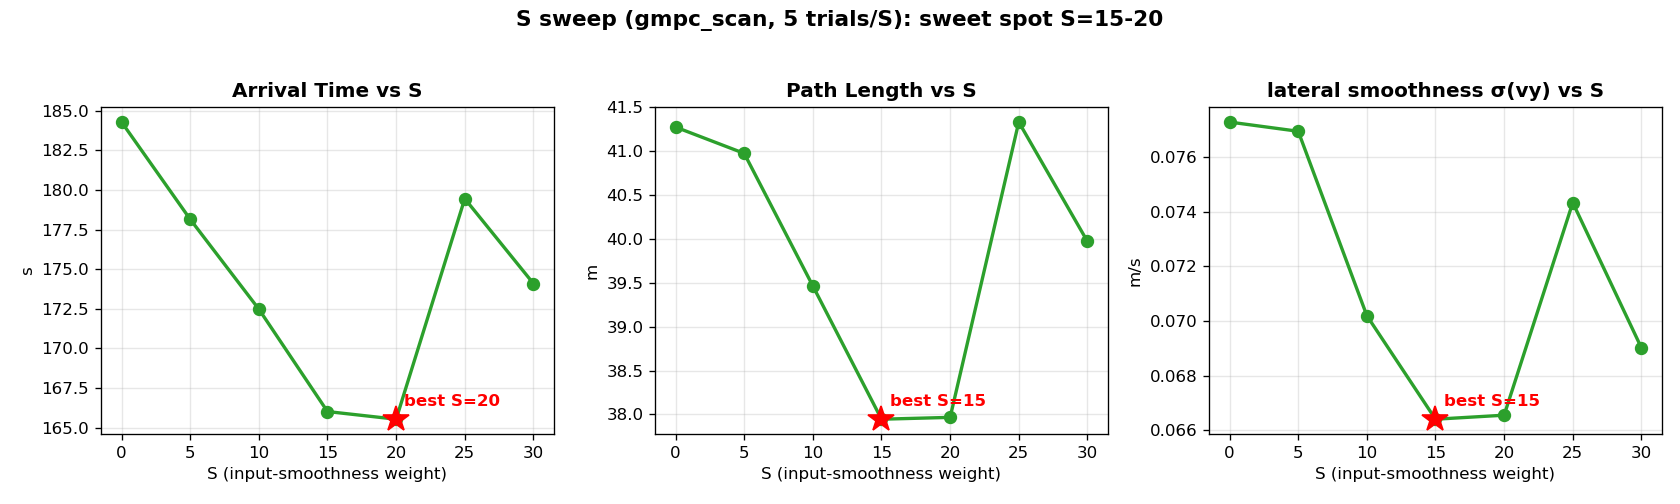
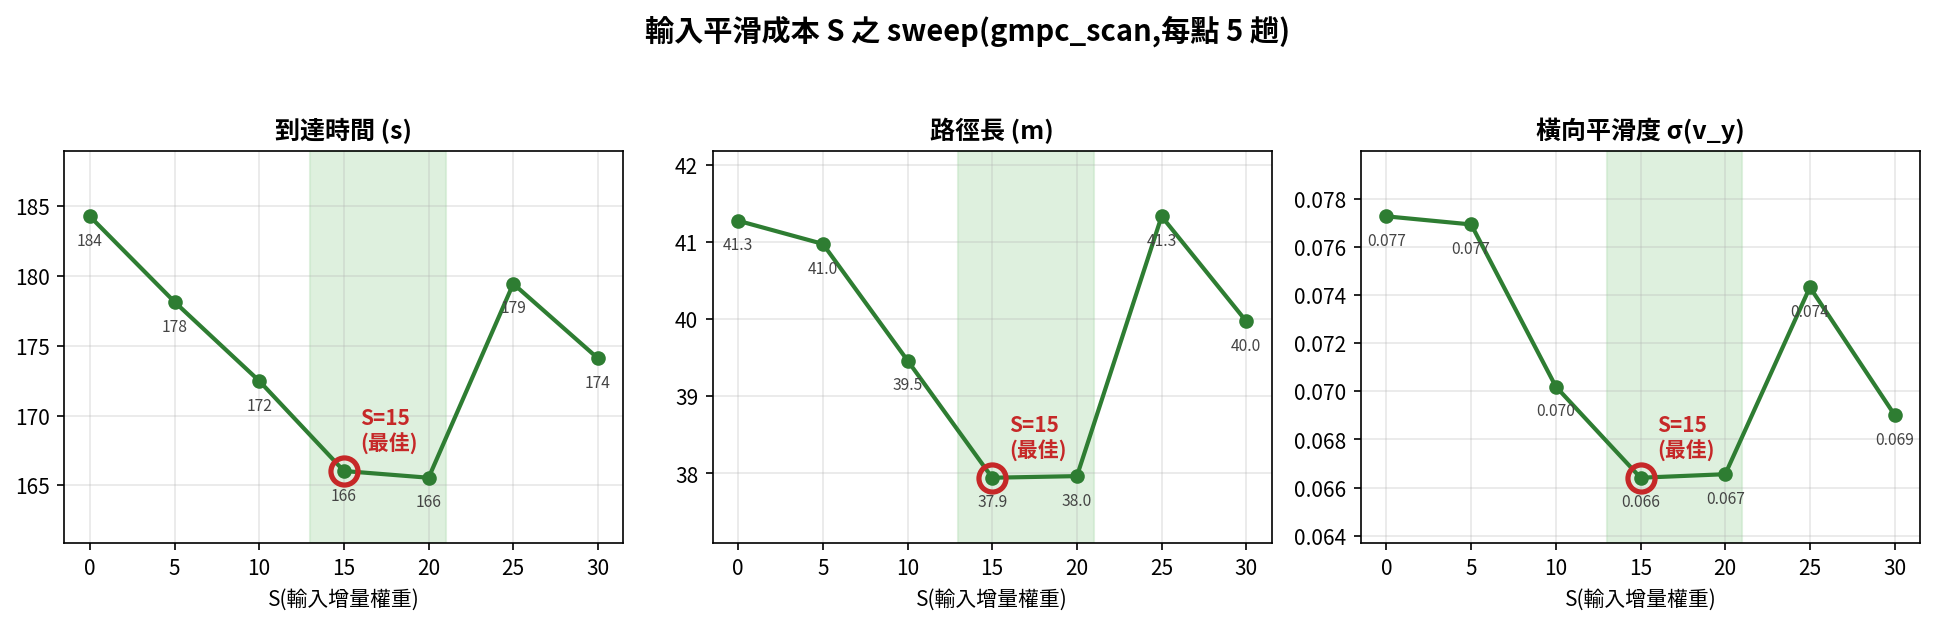
Auto-update: 2026-07-01 16:32

diff --git a/evaluation/plot_sweep_S.py b/evaluation/plot_sweep_S.py
@@ -1,0 +1,53 @@
+import csv, glob, re
+import numpy as np
+import matplotlib; matplotlib.use('Agg')
+import matplotlib.pyplot as plt
+import matplotlib.font_manager as fm
+fm.fontManager.addfont('/usr/share/fonts/opentype/noto/NotoSansCJK-Medium.ttc')
+plt.rcParams['font.family']=['Noto Sans CJK JP']
+plt.rcParams['axes.unicode_minus']=False
+
+def num(x):
+    x=str(x).strip()
+    if x=='' or x.lower()=='nan': return None
+    try: return float(x)
+    except: return None
+def succ(r): return str(r['success']).lower() in ('true','1')
+
+Ss, arr, path, smo = [], [], [], []
+for f in sorted(glob.glob('evaluation/results/sweep/S_*.csv'),
+                key=lambda p:int(re.search(r'S_(\d+)',p).group(1))):
+    S=int(re.search(r'S_(\d+)',f).group(1))
+    rows=[r for r in csv.DictReader(open(f)) if succ(r)]
+    def m(k):
+        v=[num(r[k]) for r in rows]; v=[x for x in v if x is not None]
+        return np.mean(v) if v else np.nan
+    Ss.append(S); arr.append(m('arrival_time_s')); path.append(m('path_length_m')); smo.append(m('smooth_vy'))
+Ss=np.array(Ss)
+best=15
+
+fig,axes=plt.subplots(1,3,figsize=(13,4.2))
+fig.suptitle('輸入平滑成本 S 之 sweep(gmpc_scan,每點 5 趟)', fontsize=14, fontweight='bold')
+panels=[('到達時間 (s)',arr,'%.0f'),('路徑長 (m)',path,'%.1f'),('橫向平滑度 σ(v_y)',smo,'%.3f')]
+for ax,(title,y,fmt) in zip(axes,panels):
+    y=np.array(y)
+    ax.axvspan(13,21,color='#c8e6c9',alpha=0.6,zorder=0,label='甜蜜點')
+    ax.plot(Ss,y,'-o',color='#2e7d32',lw=2,ms=6,zorder=3)
+    bi=list(Ss).index(best)
+    ax.plot(best,y[bi],'o',ms=13,mfc='none',mec='#c62828',mew=2.5,zorder=4)
+    ax.annotate(f'S={best}\n(最佳)',(best,y[bi]),textcoords='offset points',
+                xytext=(8,10),color='#c62828',fontweight='bold',fontsize=10)
+    for xv,yv in zip(Ss,y):
+        ax.annotate(fmt%yv,(xv,yv),textcoords='offset points',xytext=(0,-14),
+                    ha='center',fontsize=7.5,color='#444')
+    ax.set_title(title,fontsize=12,fontweight='bold')
+    ax.set_xlabel('S(輸入增量權重)'); ax.set_xticks(Ss)
+    ax.grid(alpha=0.3)
+    pad=(np.nanmax(y)-np.nanmin(y))*0.25 or 1
+    ax.set_ylim(np.nanmin(y)-pad, np.nanmax(y)+pad)
+plt.tight_layout(rect=[0,0,1,0.94])
+out='evaluation/results/figs/sweep_S.png'
+plt.savefig(out,dpi=150,bbox_inches='tight')
+print('saved ->',out)
+print('S :',list(Ss)); print('arr:',[f'{v:.0f}' for v in arr])
+print('path:',[f'{v:.1f}' for v in path]); print('smo:',[f'{v:.3f}' for v in smo])
